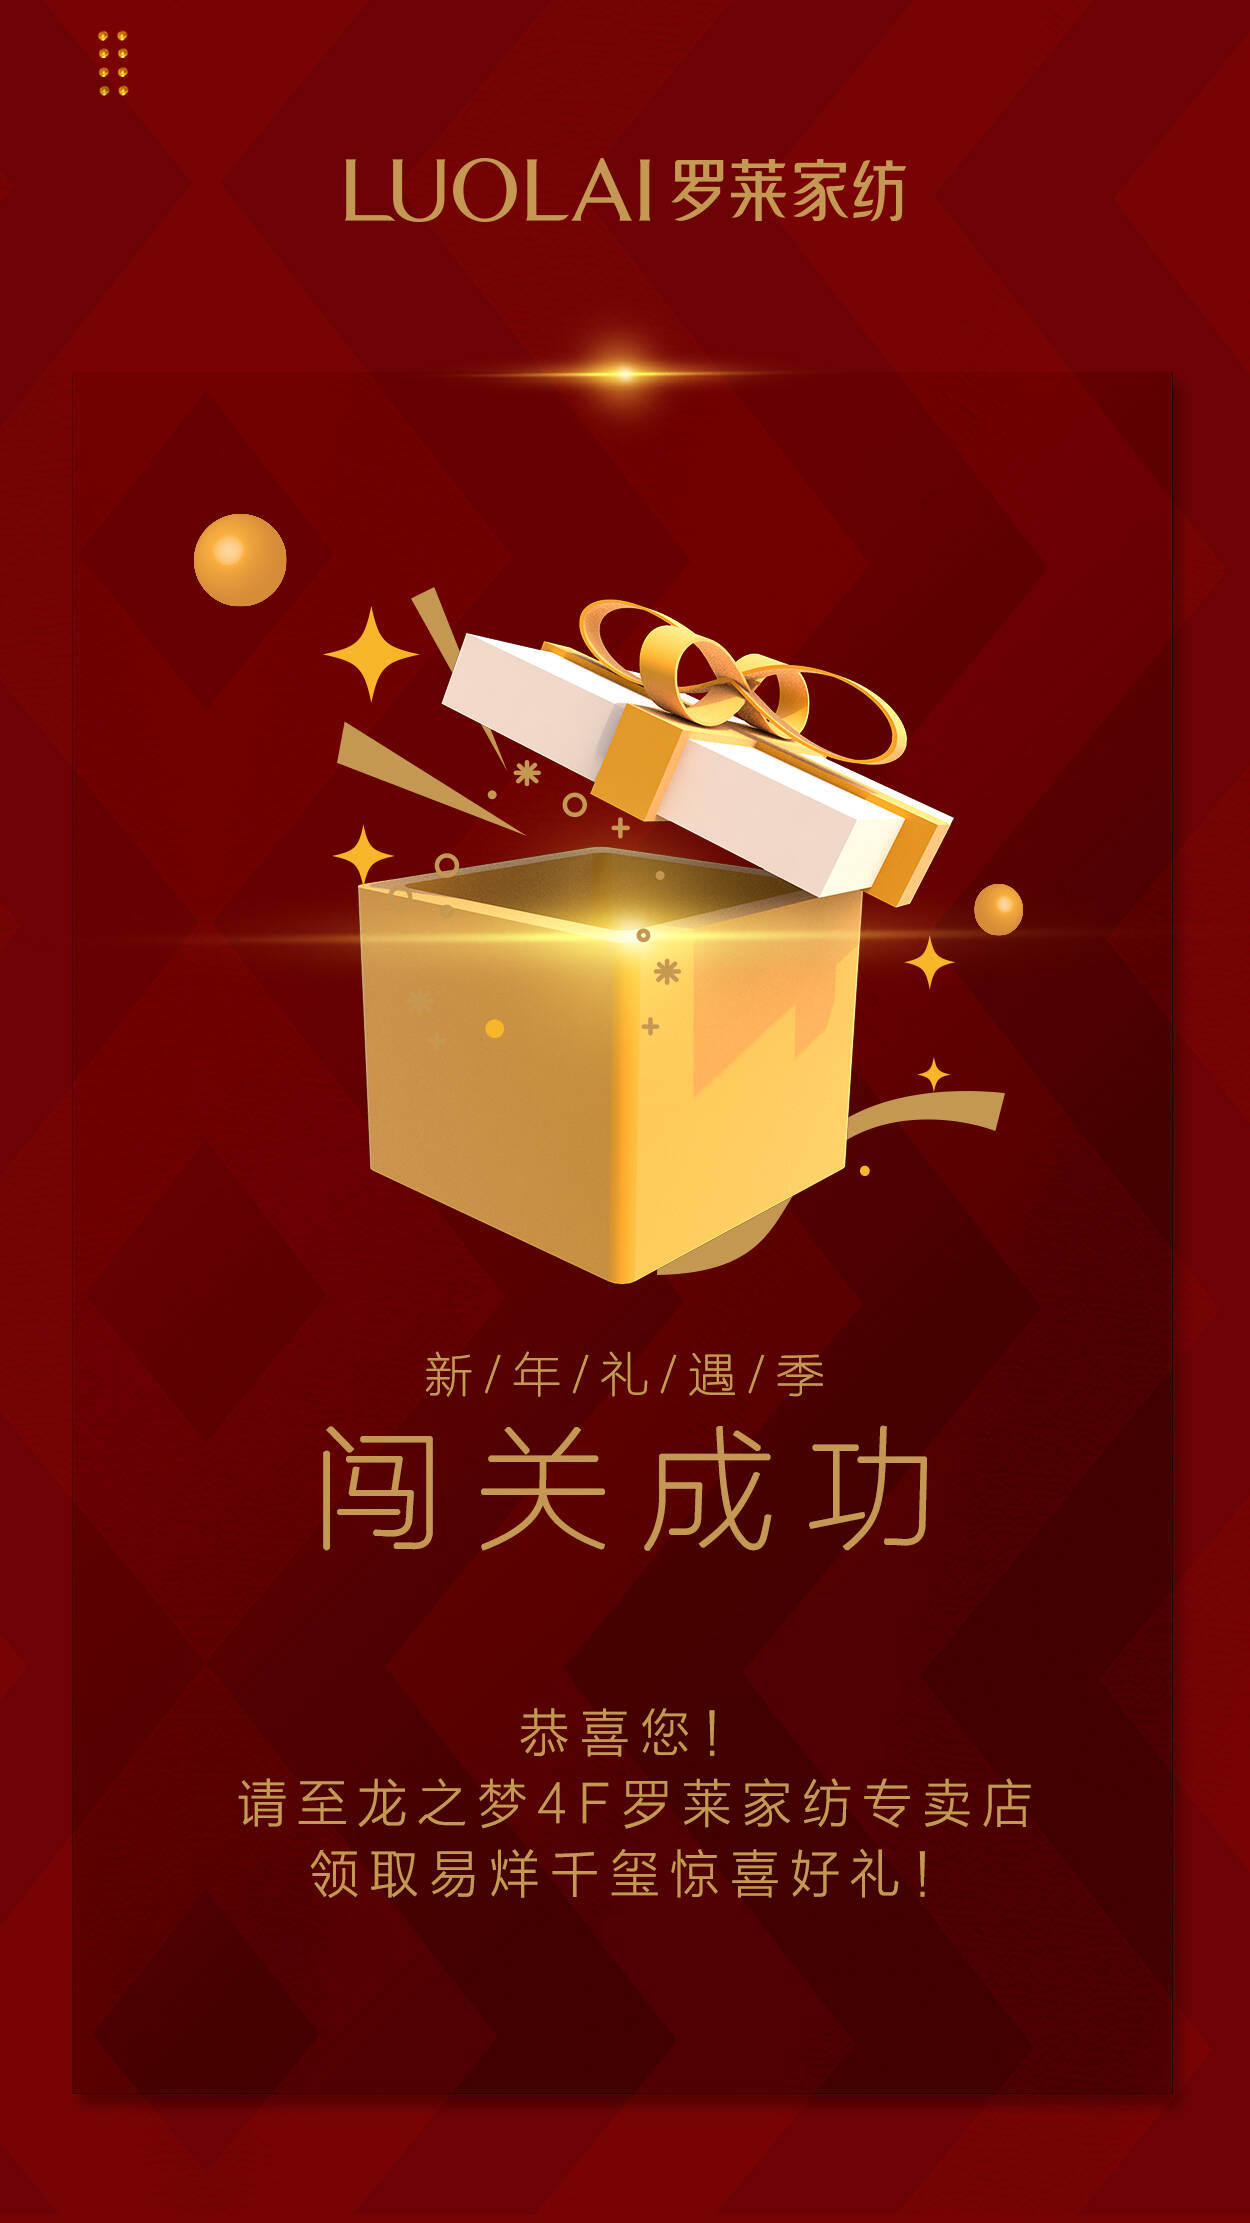
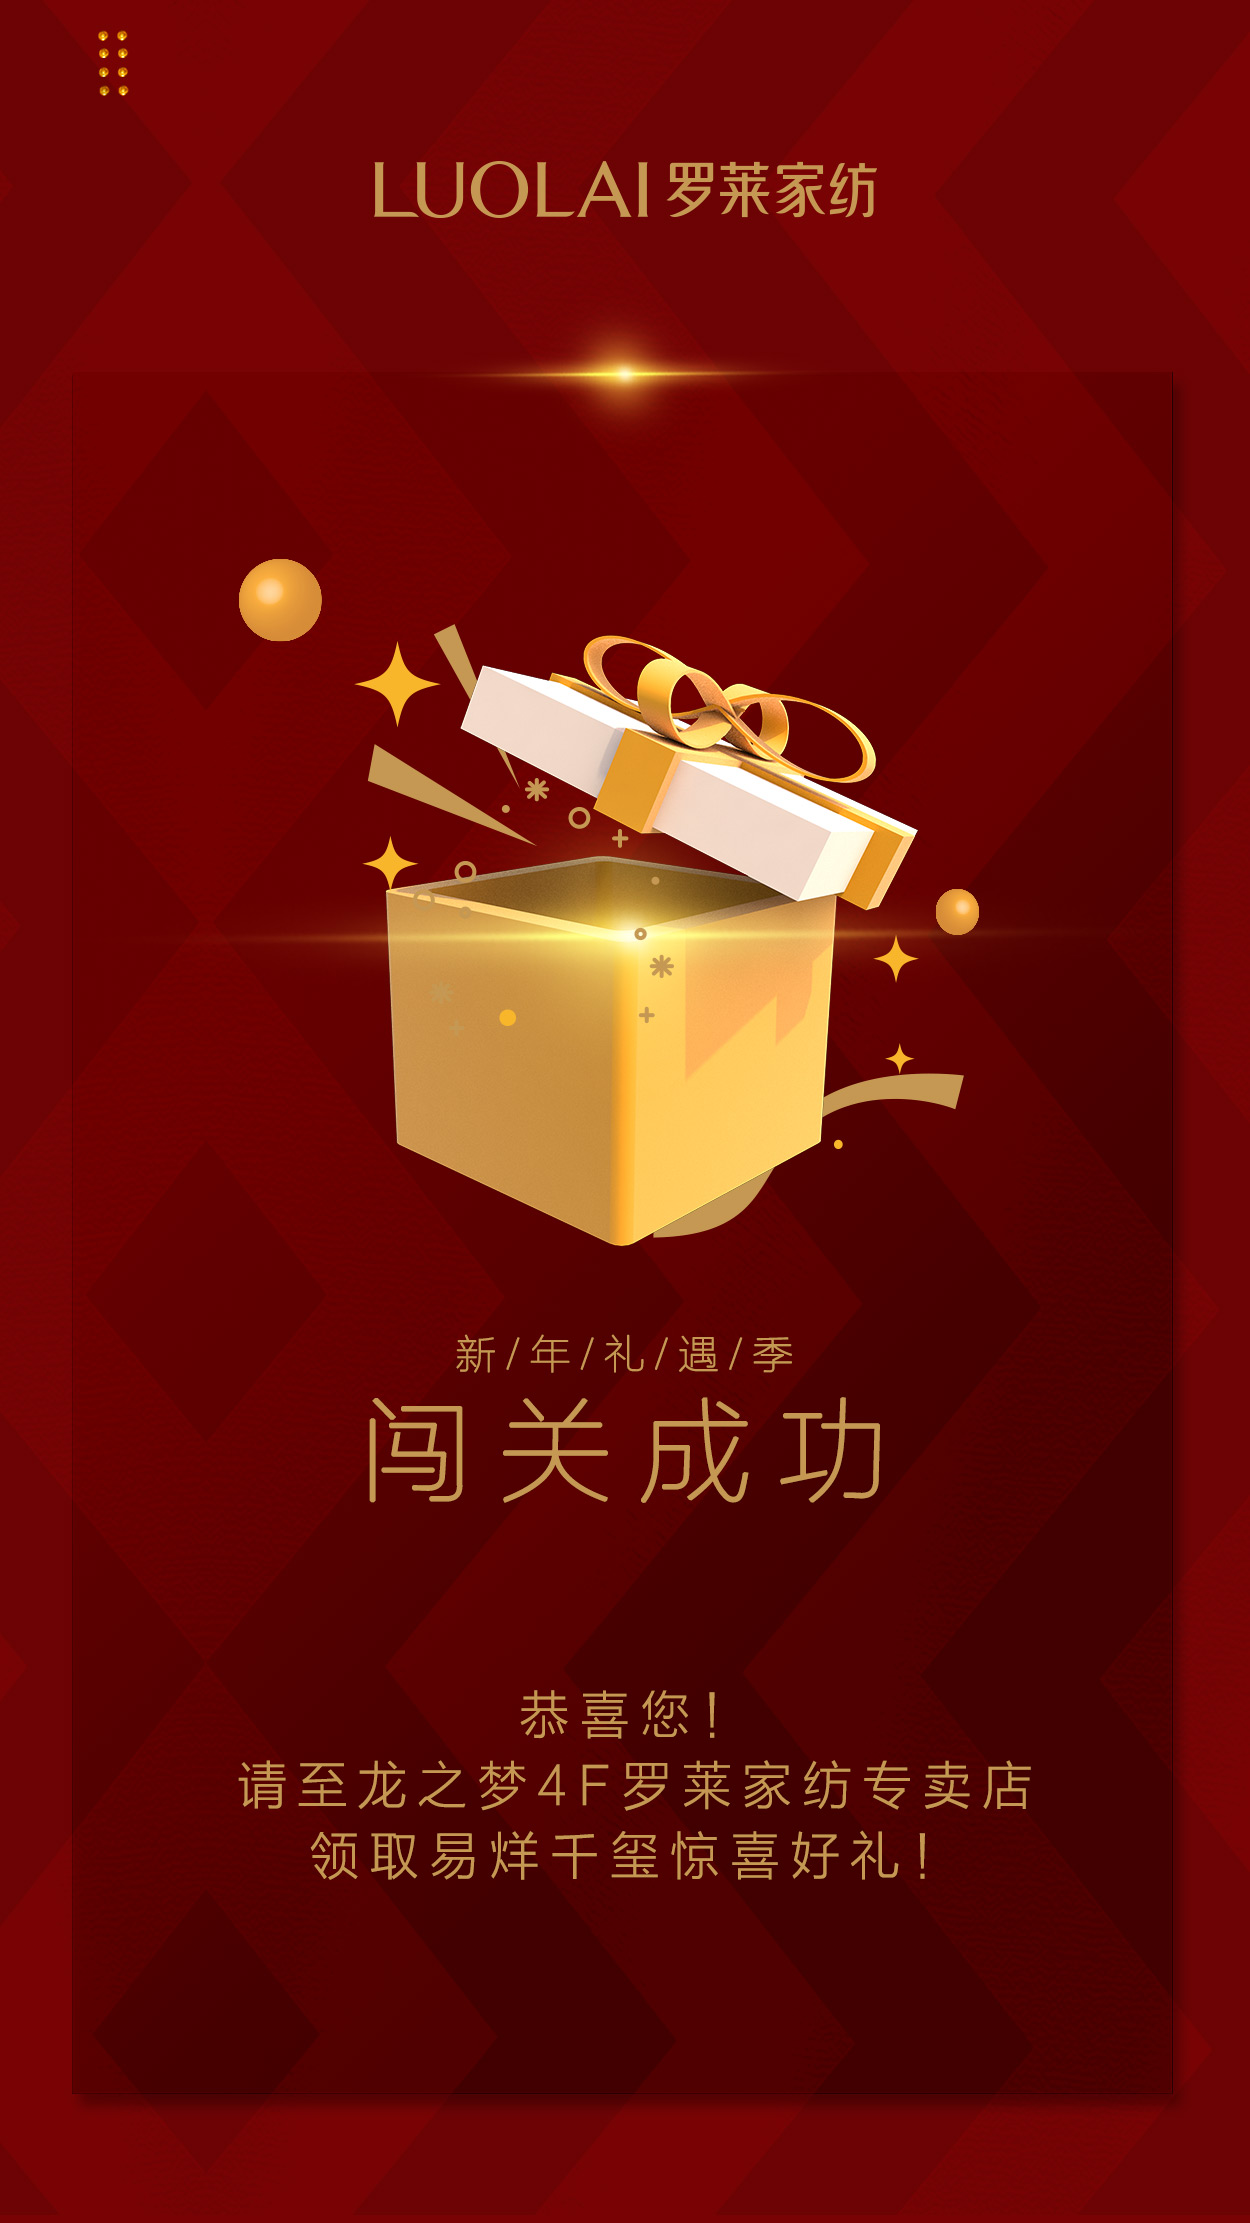
调整ui
描述：

Bug Id: #

diff --git a/miniprogram/pages/invitation/luolai/luolai.js b/miniprogram/pages/invitation/luolai/luolai.js
@@ -98,10 +98,19 @@ Page({
       success(res) {
         console.log(res)
         var logoArr = JSON.parse(res.data)
+        var isComplete = logoArr.indexOf(false) == -1
         that.setData({
           logoArray: logoArr,
-          isAllComplete: logoArr.indexOf(false) == -1
+          isAllComplete: isComplete,
+          lightName: isComplete
         })
+        if (isComplete) {
+          that.animate('.gift', [
+            { opacity: 0, scale3d: [0.5, 0.5, 0.5], ease: 'ease-out'},
+            { opacity: 1.0, scale3d: [1, 1, 1], ease: 'ease-out'},
+            ], 1000, function () {
+          }.bind(that))
+        }
       }
     })
   },
